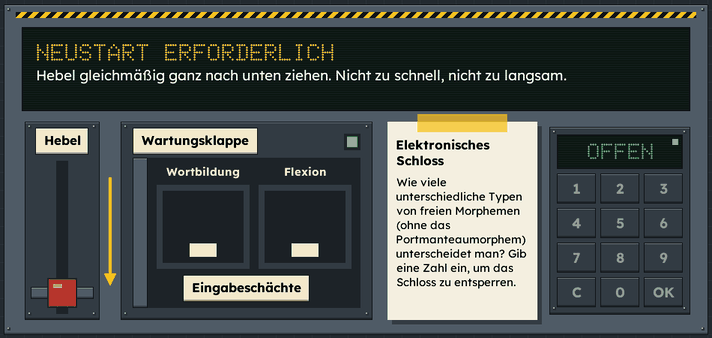
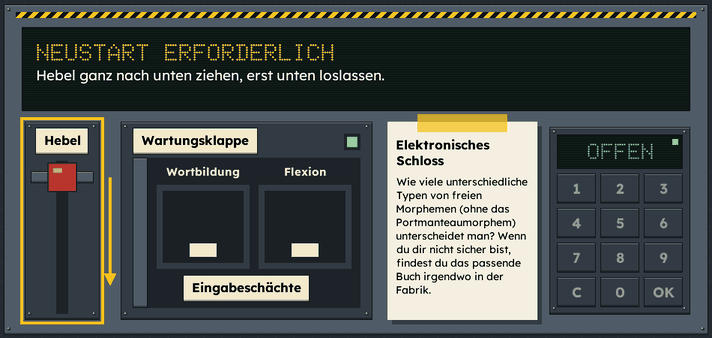
MorphCo: Hang up while dialing, finish Sammelband rename, new lever image

diff --git a/game/src/rooms/morphco/ui/PhoneUI.java b/game/src/rooms/morphco/ui/PhoneUI.java
@@ -26,9 +26,10 @@ import rooms.morphco.util.MorphCoText;
  * <p>The green handset key of the dial pad dials through the engine's {@link Dialer}, the red one
  * hangs up. After a line has answered, the green key dials the same number again. An unknown number
  * gets "no connection" right away. A known number takes a second to dial, with one dot more on the
- * display for every third of it; the keys rest and the answer waits until then. The server answers
- * in the phone: the screen below it shows what the line says, a question with a yes and a no
- * button. The names of the listed lines are text keys of the room.
+ * display for every third of it; the keys are disabled and the answer waits until then. The red key
+ * stays free and hangs up, and an answer that comes after that is dropped. The server answers in
+ * the phone: the screen below it shows what the line says, a question with a yes and a no button.
+ * The names of the listed lines are text keys of the room.
  */
 final class PhoneUI extends MorphCoConsoleUI implements DialogFeedbackReceiver {
 
@@ -61,6 +62,8 @@ final class PhoneUI extends MorphCoConsoleUI implements DialogFeedbackReceiver {
   private long dialingSince = -1;
   private int dots;
   private Dialer.Answer answer;
+  // Hung up before the line answered: its answer is still on the way.
+  private boolean dropAnswer;
 
   private PhoneUI(DialogContext context) {
     super(
@@ -121,6 +124,10 @@ final class PhoneUI extends MorphCoConsoleUI implements DialogFeedbackReceiver {
 
   @Override
   public void applyFeedback(DialogFeedbackMessage message) {
+    if (dropAnswer) {
+      dropAnswer = false;
+      return;
+    }
     answer = Dialer.answer(message);
     if (dialingSince < 0) showAnswer();
   }
@@ -142,7 +149,7 @@ final class PhoneUI extends MorphCoConsoleUI implements DialogFeedbackReceiver {
   }
 
   private void showAnswer() {
-    keypad.enabled(true);
+    keypad.typing(true);
     // The mailbox has played its message.
     if (dialed.equals(waitingMailbox)) waitingMailbox = "";
     keypad.showDialed(dialed, MorphCoUI.GO);
@@ -174,7 +181,7 @@ final class PhoneUI extends MorphCoConsoleUI implements DialogFeedbackReceiver {
       dialingSince = TimeUtils.millis();
       dots = 0;
       answer = null;
-      keypad.enabled(false);
+      keypad.typing(false);
       clearSpeech();
       return;
     }
@@ -191,8 +198,10 @@ final class PhoneUI extends MorphCoConsoleUI implements DialogFeedbackReceiver {
   }
 
   private void hangUp() {
+    if (dialingSince >= 0 && answer == null) dropAnswer = true;
     dialingSince = -1;
     answer = null;
+    keypad.typing(true);
     clearSpeech();
   }
 

diff --git a/game/src/rooms/morphco/ui/KeypadNode.java b/game/src/rooms/morphco/ui/KeypadNode.java
@@ -85,6 +85,8 @@ final class KeypadNode extends CanvasNode {
   private final List<Button> keys = new ArrayList<>();
   private Label display;
   private boolean enabled = true;
+  private boolean typing = true;
+  private Button clearKey;
   private Color light = MorphCoUI.LED_OFF;
 
   /**
@@ -162,6 +164,20 @@ final class KeypadNode extends CanvasNode {
   }
 
   /**
+   * Enables or disables every key but the clear key, e.g. while a phone dials and can still hang
+   * up.
+   *
+   * @param value whether the digits and the confirm key can be pressed
+   */
+  void typing(boolean value) {
+    ensureContentBuilt();
+    typing = value;
+    keys.stream()
+        .filter(key -> key != clearKey)
+        .forEach(key -> key.setDisabled(!value || !enabled));
+  }
+
+  /**
    * Takes the keys of the {@link Dialer}'s actions that reach a dialog, see {@link
    * UIUtils#onUiAction}; its input context must declare them.
    *
@@ -177,7 +193,7 @@ final class KeypadNode extends CanvasNode {
   }
 
   private void press(String key) {
-    if (!enabled) return;
+    if (!enabled || !typing && !key.equals(CLEAR)) return;
     switch (key) {
       case CLEAR -> {
         entry.clear();
@@ -233,6 +249,7 @@ final class KeypadNode extends CanvasNode {
             : new String[] {"1", "2", "3", "4", "5", "6", "7", "8", "9", CONFIRM, "0", CLEAR};
     for (int index = 0; index < layout.length; index++) {
       Button button = key(layout[index]);
+      if (layout[index].equals(CLEAR)) clearKey = button;
       keys.add(button);
       content.add(button);
       if (index % 3 == 2) content.row();

diff --git a/game/src/rooms/morphco/level/AffixSorter.java b/game/src/rooms/morphco/level/AffixSorter.java
@@ -247,7 +247,7 @@ final class AffixSorter {
         RESTART_MILLIS);
   }
 
-  // Keeps only the known words and the cuts that fall between two of their letters.
+  // Keeps only the known words, the cuts that fall between two of their letters and a bin per part.
   private static String cleanDraft(String draft) {
     Map<String, AffixPuzzle.WordAnswer> sent = AffixPuzzle.decodeWords(draft);
     Map<String, AffixPuzzle.WordAnswer> kept = new LinkedHashMap<>();
@@ -256,7 +256,10 @@ final class AffixSorter {
       if (answer == null) continue;
       List<Integer> cuts =
           answer.cuts().stream().filter(cut -> cut > 0 && cut < word.text().length()).toList();
-      kept.put(word.id(), new AffixPuzzle.WordAnswer(cuts, answer.bins()));
+      // A dropped cut also drops the bin of the part it would have made.
+      List<AffixPuzzle.Bin> bins =
+          answer.bins().subList(0, Math.min(answer.bins().size(), cuts.size() + 1));
+      kept.put(word.id(), new AffixPuzzle.WordAnswer(cuts, bins));
     }
     return AffixPuzzle.encodeWords(kept);
   }

diff --git a/game/test/rooms/morphco/level/AffixSorterTest.java b/game/test/rooms/morphco/level/AffixSorterTest.java
@@ -29,8 +29,8 @@ class AffixSorterTest {
     AffixSorter sorter = new AffixSorter(level);
     List<UIComponent> opened = new ArrayList<>();
     String draft = "w0:2,4:P,-,-;w3:4:-,S";
-    // A cut outside the word and an unknown word do not come back.
-    String sent = "w0:2,4,99:P,-,-;w3:4:-,S;w99:1:P";
+    // A cut outside the word, the bin of its part and an unknown word do not come back.
+    String sent = "w0:2,4,99:P,-,-,-;w3:4:-,S;w99:1:P";
     try (MockedStatic<DialogFactory> dialogs = mockStatic(DialogFactory.class)) {
       dialogs
           .when(() -> DialogFactory.show(any(DialogContext.class), anyInt()))

diff --git a/doc/escape_room/room_concepts/morph_co/morph_co_concept.md b/doc/escape_room/room_concepts/morph_co/morph_co_concept.md
@@ -108,7 +108,7 @@ per Drag & Drop oder Klick in Fächer gelegt. Stämme bleiben liegen.
   Teil 1 (freie Morpheme, Portmanteau) steht in F-04, Teil 2 (gebundene Morpheme, Flexions- und
   Derivationsaffixe) in A-12. Die Schlossfrage in A-12 braucht Teil 1 und verbindet so beide Hallen.
   Beide Bände nimmt man aus dem Regal ins Inventar; zieht man dort einen auf den anderen, entsteht
-  der Sammelband „Morphemtypen und wo sie zu finden sind: Sammelband“, ein Buch mit beiden Teilen.
+  der Sammelband „Morphemtypen und wo sie zu finden sind: Sammelband“ mit beiden Teilen.
 
 ## Telefon und Technik-Hotline
 
@@ -173,7 +173,7 @@ Reparatur, darunter eingerückt ihre Schritte, so wie das Skript sie als Unterpu
 | Auftrag | Alarm, Ursachen feststellen, Sicherungsbox verkabeln (sobald der PC gelesen ist), A-12 reparieren, F-04 reparieren, Produktion neu starten |
 | F-04 Flexionsstraße | F-04 reparieren mit den Unterpunkten Handbuch gelesen, Flexionsmaschine überprüfen (darunter: Wortarten identifiziert), Affix-Sortieranlage inspizieren |
 | A-12 Affix-Sortieranlage | A-12 reparieren mit den Unterpunkten Anlage inspizieren, Affixe sortieren, Zirkumfixe montieren (sobald Teile genommen, Zirkumfixe montiert oder Schächte befüllt sind), mit dem Hebel neu starten, zur Flexionsmaschine gehen |
-| Indizien | fehlerhafte Wortformen, Mängelmeldung, Handbuch (aufklappbar), Morphemtypen Teil 1/2 und Handout (Verweis aufs Inventar), Display, Schlossfrage, Zirkumfix-Teile |
+| Indizien | fehlerhafte Wortformen, Mängelmeldung, Handbuch (aufklappbar), Morphemtypen Teil 1/2 und Sammelband (Verweis aufs Inventar), Display, Schlossfrage, Zirkumfix-Teile |
 | Hinweise | jede gehörte Stufe der Technik-Hotline („Hinweis“, „Tipp“, „Lösung“), der neueste oben |
 
 Die Hinweise haben einen eigenen Tab statt eines Eintrags im passenden Aufgaben-Tab: Die anderen
@@ -230,8 +230,8 @@ Die Bilder sind vorhandene Sprites des Projekts (wie bei Soulweaver).
   getragen werden, etwa nach dem Laden oder wenn ein Spieler das Spiel verlassen hat.
   Zirkumfix-Teile lassen sich deshalb nicht ablegen. Wer wieder beitritt, bekommt seine Teile nicht
   zurück; sie liegen im Krimskrams, solange niemand sie genommen hat. Die Bände „Morphemtypen“ und
-  das Handout merkt sich der Zustand als Flags `carried:<dokument>:<spieler>`; wer nach dem Laden
-  mit demselben Namen beitritt, bekommt sie zurück (das Handout ersetzt beide Bände).
+  den Sammelband merkt sich der Zustand als Flags `carried:<dokument>:<spieler>`; wer nach dem Laden
+  mit demselben Namen beitritt, bekommt sie zurück (der Sammelband ersetzt beide Bände).
 - **Tracking:** Puzzle-Starts, Lösungen, Versuche (`assignment`, `segmentation`, `number`, `choice`,
   `pull` für den Hebel, `plug` und `wiring` für die Sicherungsbox) und Hinweise über
   `MorphCoTracking`: die der Schichtleitung als Schritt (`hint-alarm`), die der Technik-Hotline mit
@@ -289,7 +289,8 @@ Die Bilder sind vorhandene Sprites des Projekts (wie bei Soulweaver).
   Bildschirm daneben zeigt dieselbe Statuszeile wie der PC. Das Schloss
   ist ein Ziffernblock statt eines Eingabefelds.
 - Nach Eingabeschächten und Zirkumfixen läuft A-12 erst nach einem Zug am Hebel wieder. Das Tempo
-  ist egal, der Hebel muss nur ganz nach unten; wer vorher loslässt, zieht noch einmal. Vorher klemmt der Hebel wie im Skript.
+  ist egal, der Hebel muss nur ganz nach unten; wer vorher loslässt, zieht noch einmal. Vorher
+  klemmt der Hebel wie im Skript.
 - Das Hamsterbuch im Regal von A-12 enthält alle 100 Witze in sechs Kapiteln und die
   Hamsterweisheit des Tages. Es schlägt bei jedem Öffnen einen zufälligen Witz auf, der sich erst
   wiederholt, wenn alle gezeigt wurden, und lässt sich ganz durchblättern.
@@ -319,7 +320,7 @@ Folgendes entschieden:
    **Entscheidung:** *begierig* und *gehen, ging, gegangen* bleiben.
 5. **Frage:** Die Schlossfrage nennt 8 als allgemeine Zahl; sie gilt für die Klassifikation des
    Handouts. **Entscheidung:** Die Antwort bleibt 8, die Zahl stammt aus dem zugrunde liegenden
-   Seminar und dem Handout. Die Frage am Schloss weist darauf hin, dass das passende Handout
+   Seminar und dem Handout. Die Frage am Schloss weist darauf hin, dass das passende Buch
    irgendwo in der Fabrik zu finden ist.
 
 # 10. Autoplay

diff --git a/doc/escape_room/room_concepts/morph_co/Morph & Co Walkthrough/MorphCo.md b/doc/escape_room/room_concepts/morph_co/Morph & Co Walkthrough/MorphCo.md
@@ -209,7 +209,7 @@ Waschbecken, einen Spiegel und eine blaue Tonne, die als Toilette dient. Die Rei
 Hallen ist frei; dieser Walkthrough beginnt mit F-04, weil dort auch der Hinweis für das Schloss in
 A-12 steht.
 
-### 6. F-04: Handbuch und Handout Teil 1
+### 6. F-04: Handbuch und Morphemtypen Teil 1
 
 ![Die Halle F-04 mit Flexionsmaschine, Kisten und Förderband](images/f04_halle.png)
 
@@ -332,6 +332,8 @@ Auch die feineren Segmentierungen *ge · regne · t* (ge und t zu den Zirkumfixe
 
 Nach „Prüfen“ zeigt der Dialog, wie viele der sieben Wörter schon richtig bearbeitet sind, und
 markiert sie. Stimmt alles beim ersten Prüfen, gibt es das versteckte Achievement „Schnitt sitzt“.
+Schließt man die Wartungsklappe, bleiben Schnitte und Fächer erhalten und sind beim nächsten Öffnen
+wieder da.
 
 ### 11. A-12: Eingabeschächte
 
@@ -406,7 +408,7 @@ den Pfeil nach unten gedrückt.
 
 Danach zeigt das Display „STATUS: OK“, A-12 ist repariert, und es gibt das Achievement „Marie Kondo
 wäre stolz auf dich“. Solange Eingabeschächte oder Zirkumfix-Magazin leer sind, klemmt der Hebel
-nur („Hnnnnnnnnnng!“).
+und gibt nur ein Stück nach.
 
 ### 14. F-04: Flexionsmaschine
 
